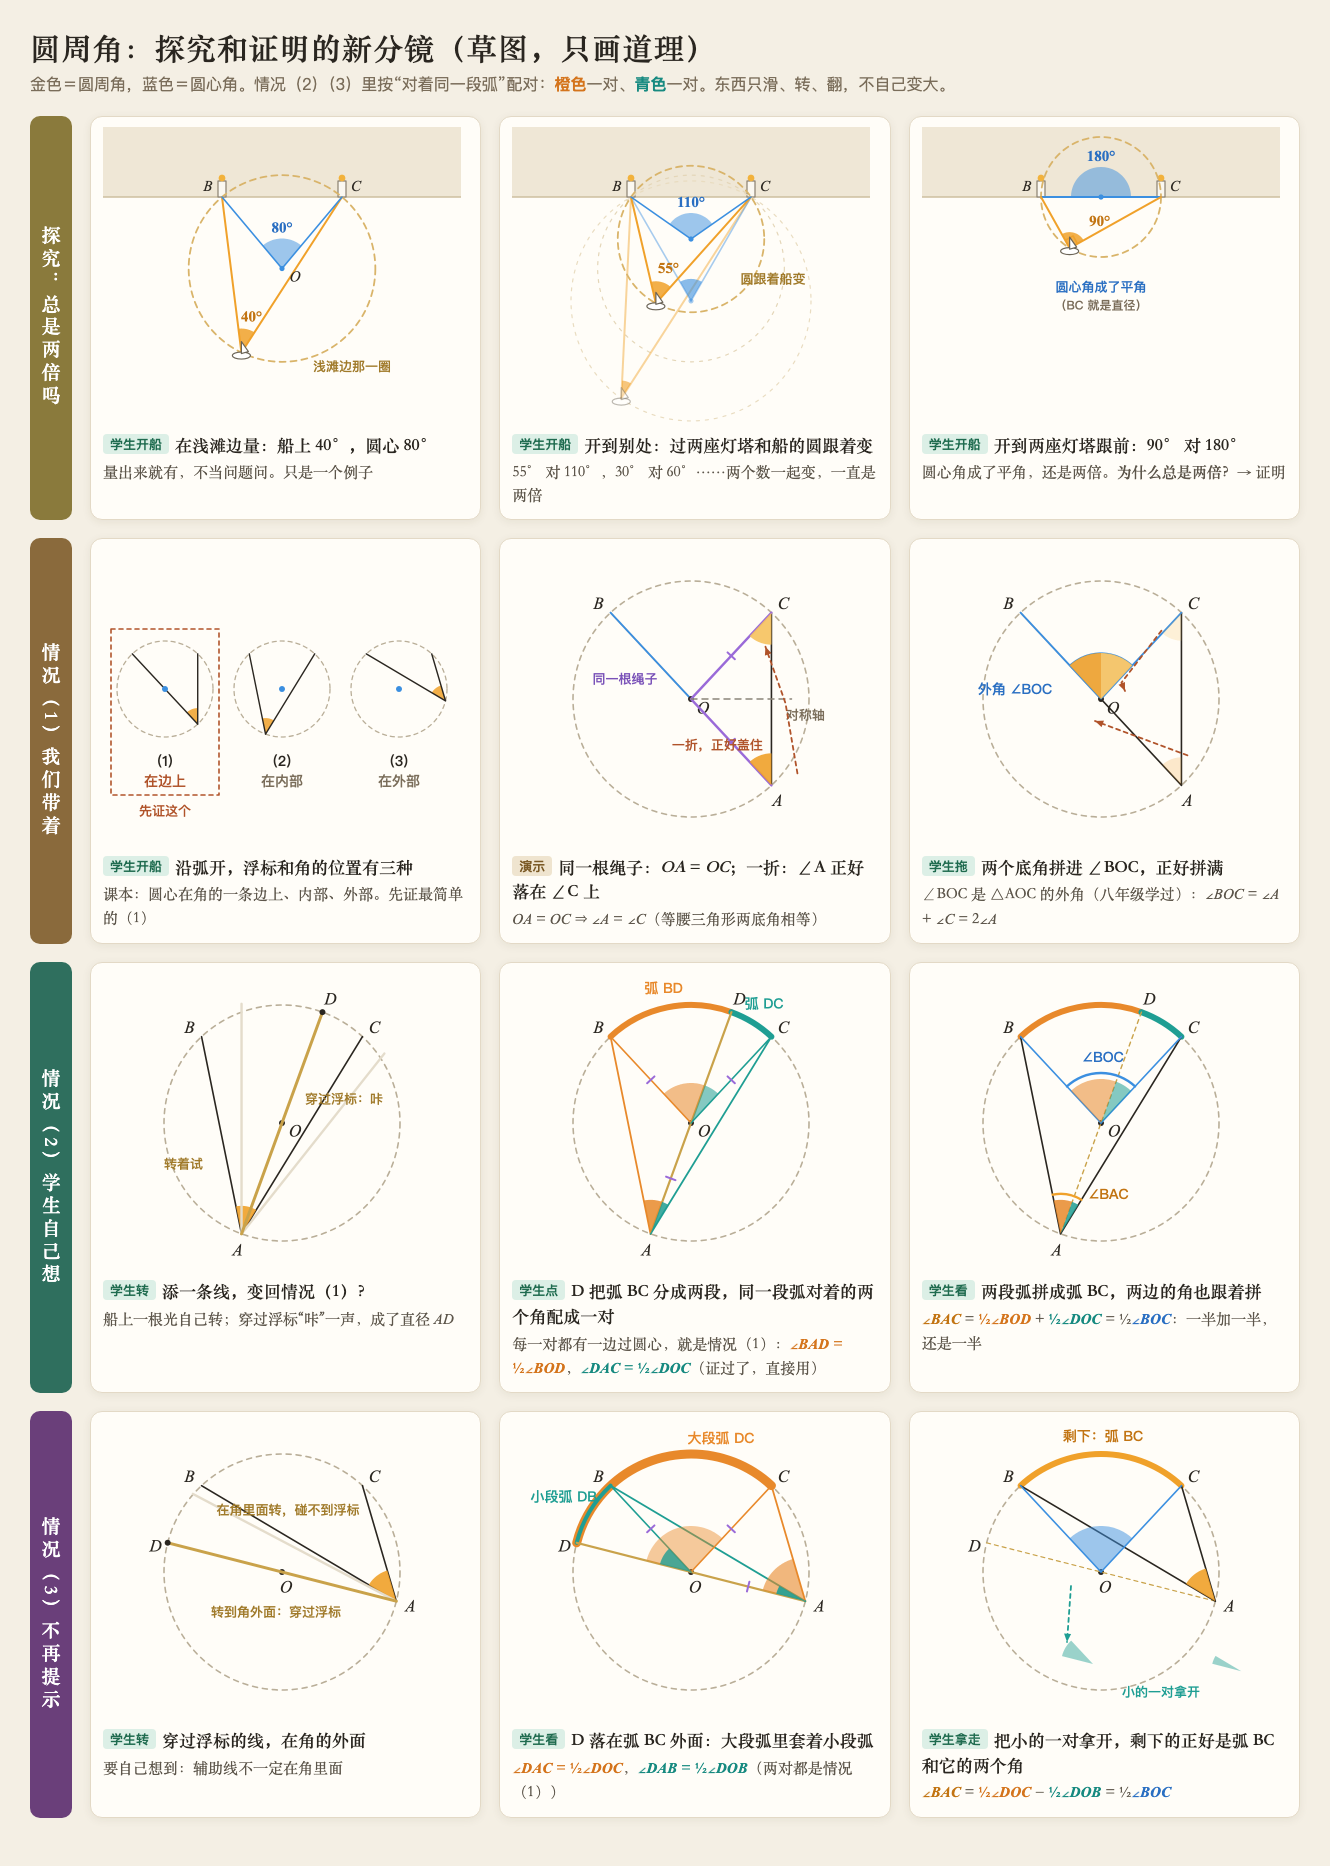
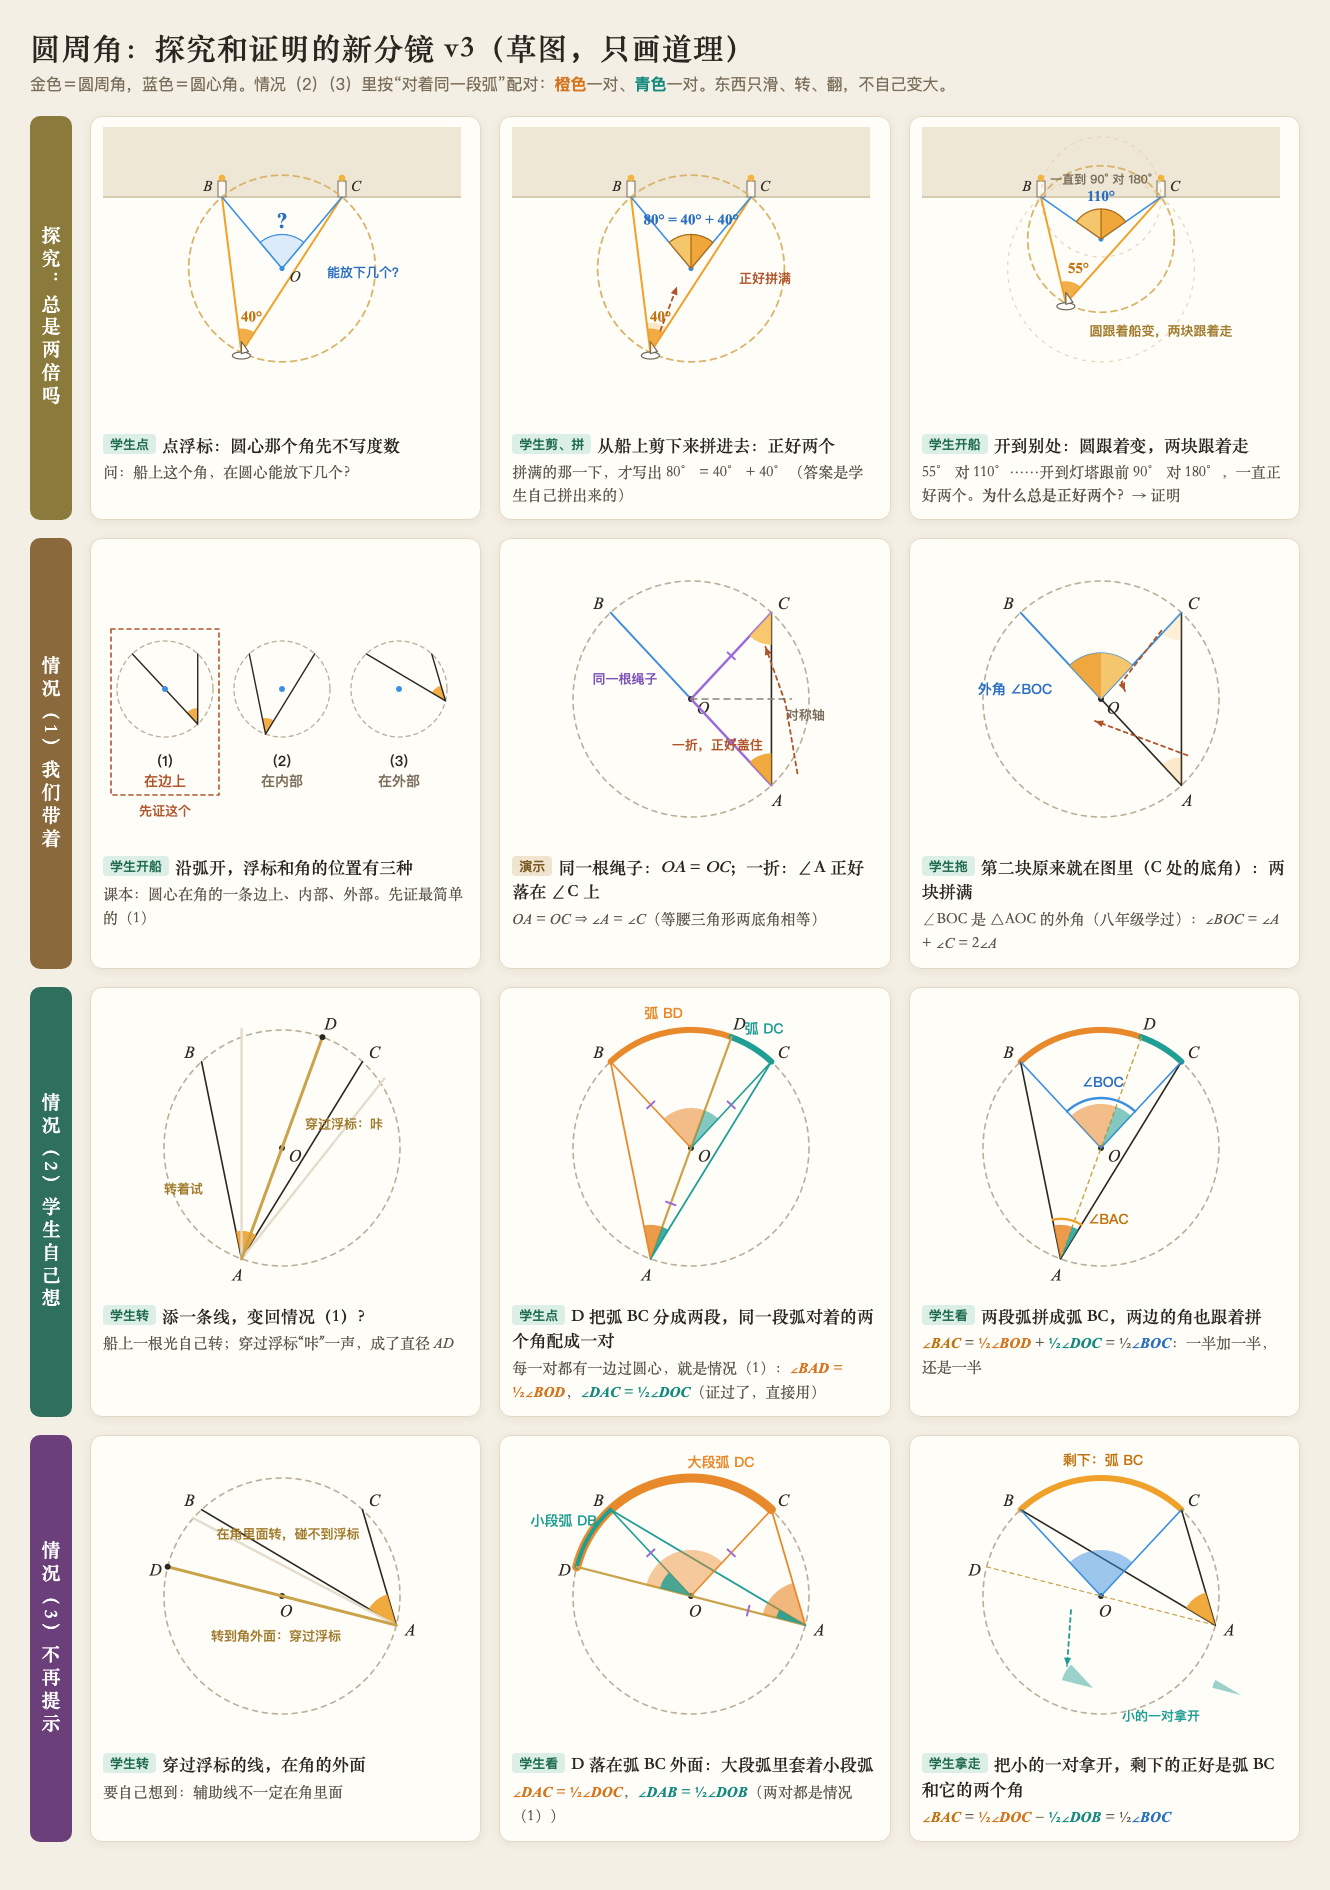
数学圆周角：分镜 v3——留住“从船上剪下来拼”，圆心角度数等拼满才写出来；开到别处两块跟着走；证明里第二块在图里找到
作者追问：去掉剪拼会少了代入、动手和思考。毛病不在剪拼，在度数先写出来了。标准草稿相应改两条。

diff --git a/DESIGN-数学.md b/DESIGN-数学.md
@@ -55,7 +55,7 @@
 - 每个发现之后，接一个学生自然会问的“为什么”，由它带出下一步。两次发现之间没有这个问题，就是跳了。
 - 提示用问题（“换个位置，什么没变？”），少用“点这里”；操作说明只在鼠标停上去时出现。
 - 预测是选做的，写在旁边，不拦着人。
-- **屏幕上已经写着答案的，不当问题问**（写着 40° 和 80° 还问“是什么关系”，没有可想的）。量出来的数直接给；值得想的是“换一个还成立吗”：让学生自己改变条件，看关系跟着不变（课本的探究就是“改变弧 BC，上述关系是否仍然成立”）。一个例子只是例子，许多个都成立，才轮到问“为什么”。
+- **屏幕上已经写着答案的，不当问题问**（写着 40° 和 80° 还问“是什么关系”，没有可想的）。要学生动手找的那个数，等他做出来的那一下才写出来（圆心角的度数，拼满两块才出现）。然后问“换一个还成立吗”：让学生自己改变条件，看关系跟着不变（课本的探究就是“改变弧 BC，上述关系是否仍然成立”）。一个例子只是例子，许多个都成立，才轮到问“为什么”。
 
 ## 六、代入感
 
@@ -69,7 +69,7 @@
 - **证明要看得见“为什么”**：学生动手时已经信了结论，证明给的是理由。图上每一个“等于”，都是一样东西挪过去正好盖住另一样（同一根绳子转过去、对折重合、几块严丝合缝地拼满）；东西只滑、转、翻，不自己变大变小——自己长成两倍的那块，等于把结论又说一遍，没人信。
 - **几种情况是同一个想法**：后面的情况里，让第一种的那个图重新出现、让学生自己认出来（圆周角：一面旗、两面旗并排、两面旗叠起来）；证完把几种情况的小图并排放，对上课本那张图。
 - **化归的证明要看得见三件事**：为什么添这条线（让已经证过的那种情况出现）；拆出来的部分怎么一一对应（圆周角：对着同一段弧的两个角配成一对）；每一对直接用已证的结论，再照着拆法相加或相减。几块拼满只是加减的画面，本身不是理由。
-- 发现和证明不用同一个动作：都是“拖到圆心拼满”，证明看着就像把发现又演一遍。
+- 发现时动手拼出来的东西，证明里要给它来历，不是再拼一遍：圆周角发现时从船上剪两块拼满圆心角，证明时第二块是在图里找到的（C 处的底角，对折看出来）。
 - **查法**：不读字，能不能指着某一帧说“美在这里”。
 
 ## 八、节奏：豁然开朗

diff --git a/research/数学-圆周角/证明怎么做才有说服力.md b/research/数学-圆周角/证明怎么做才有说服力.md
@@ -53,10 +53,11 @@
 
 课本这一步本来是两句话：先量出两个角，问有什么关系；再“改变弧 BC，上述关系是否仍然成立”。值得想的是第二句。
 
-改法：
-- 数照样量出来给，不再当问题问，去掉“剪两块”。
-- 让学生把船开到别处：过两座灯塔和船的那个圆跟着变，两个数一起变，一直是两倍；一直开到两座灯塔跟前，是 90° 对 180°（圆心角成了平角）。
-- 许多次都成立，再问“为什么总是两倍”，进入证明。
+改法（作者追问后修正：剪下来拼要留着，那是代入和动手的地方；毛病在度数先写出来了）：
+- 点浮标时，圆心那个角先不写度数，只问：船上这个角，在圆心能放下几个？
+- 学生从船上剪下来拼进去，正好两个；拼满的那一下才写出 80° = 40° + 40°。答案是学生自己拼出来的。
+- 再问换个地方还是不是正好两个：学生把船开到别处，过两座灯塔和船的那个圆跟着变，拼好的两块跟着走，一直正好拼满（55° 对 110°……开到两座灯塔跟前是 90° 对 180°）。
+- 许多次都成立，再问“为什么总是正好两个”，进入证明。证明里第二块不再从船上剪，而是在图里找到它：C 处的底角（对折看出来）。发现时拼的两块，在证明里有了来历。
 
 **二、情况（2）（3）有没有讲出推理？只是面积相加吗？**
 
